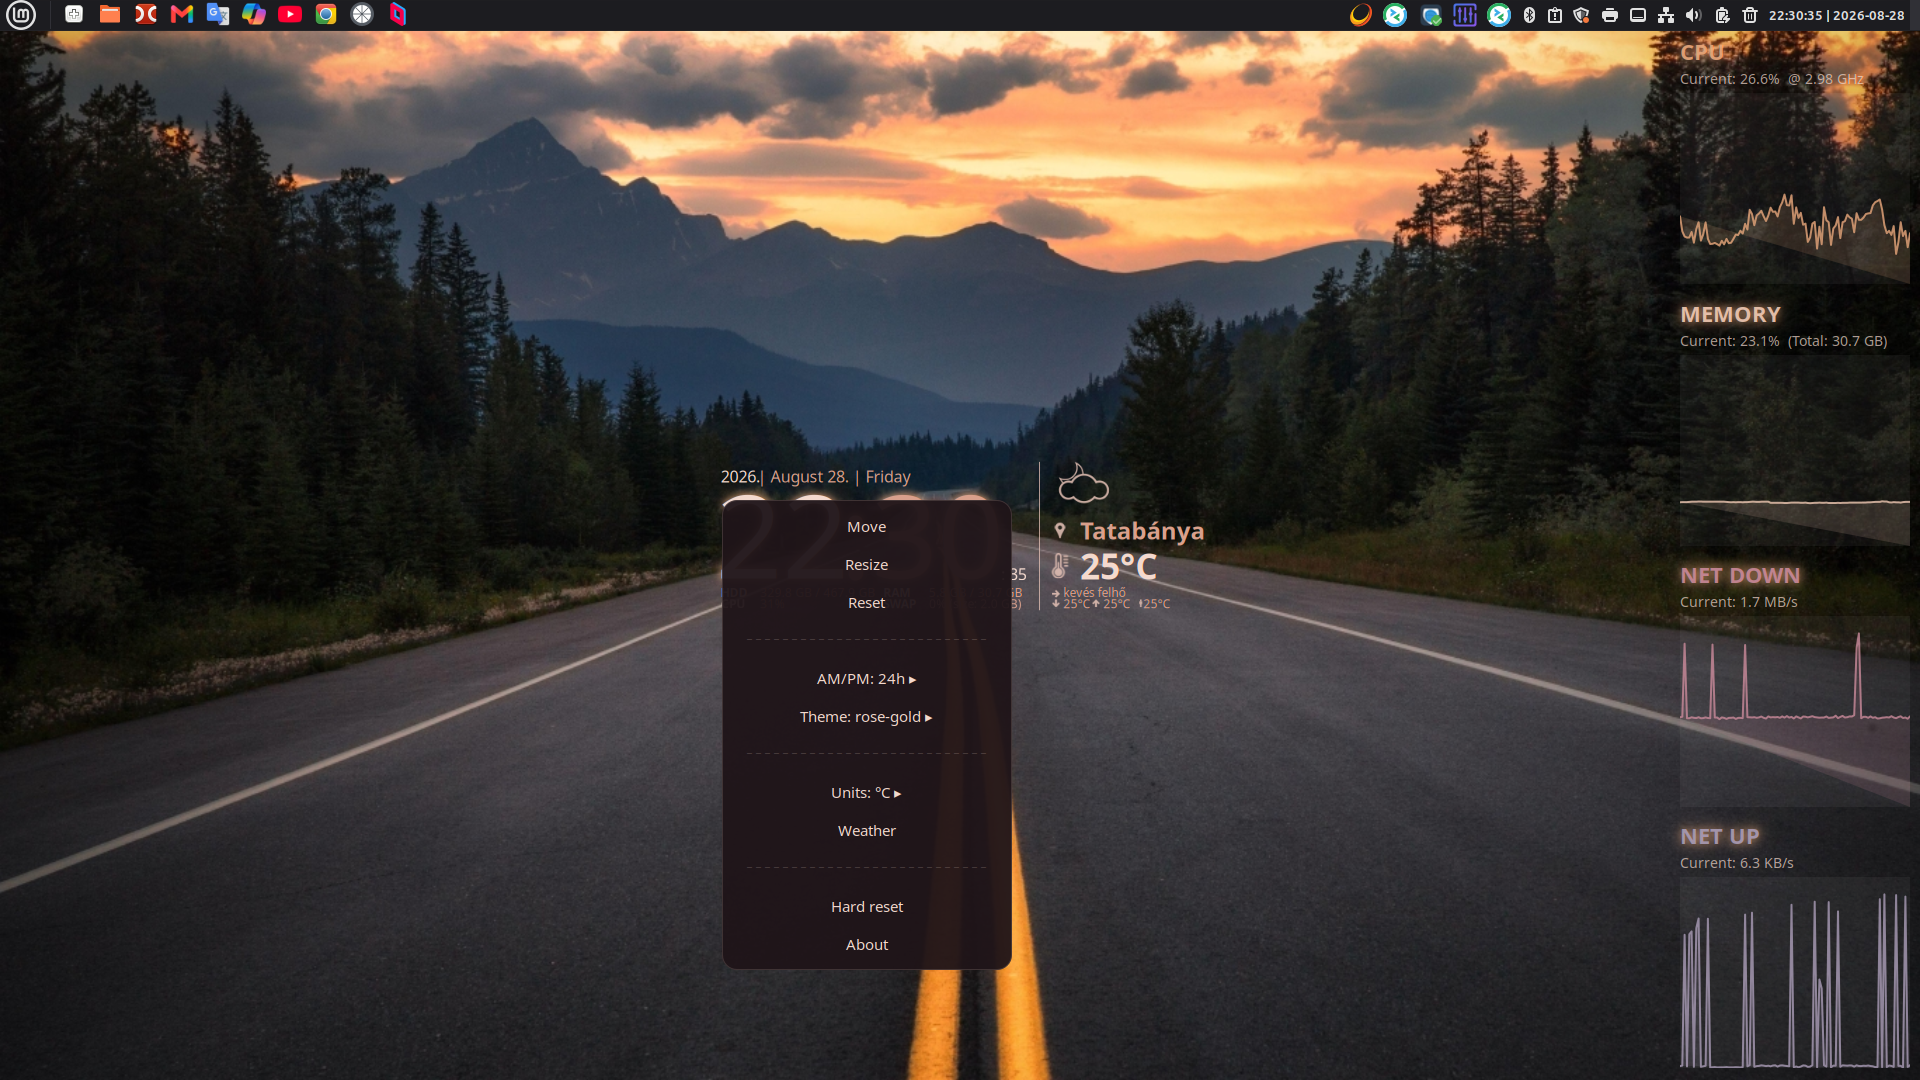
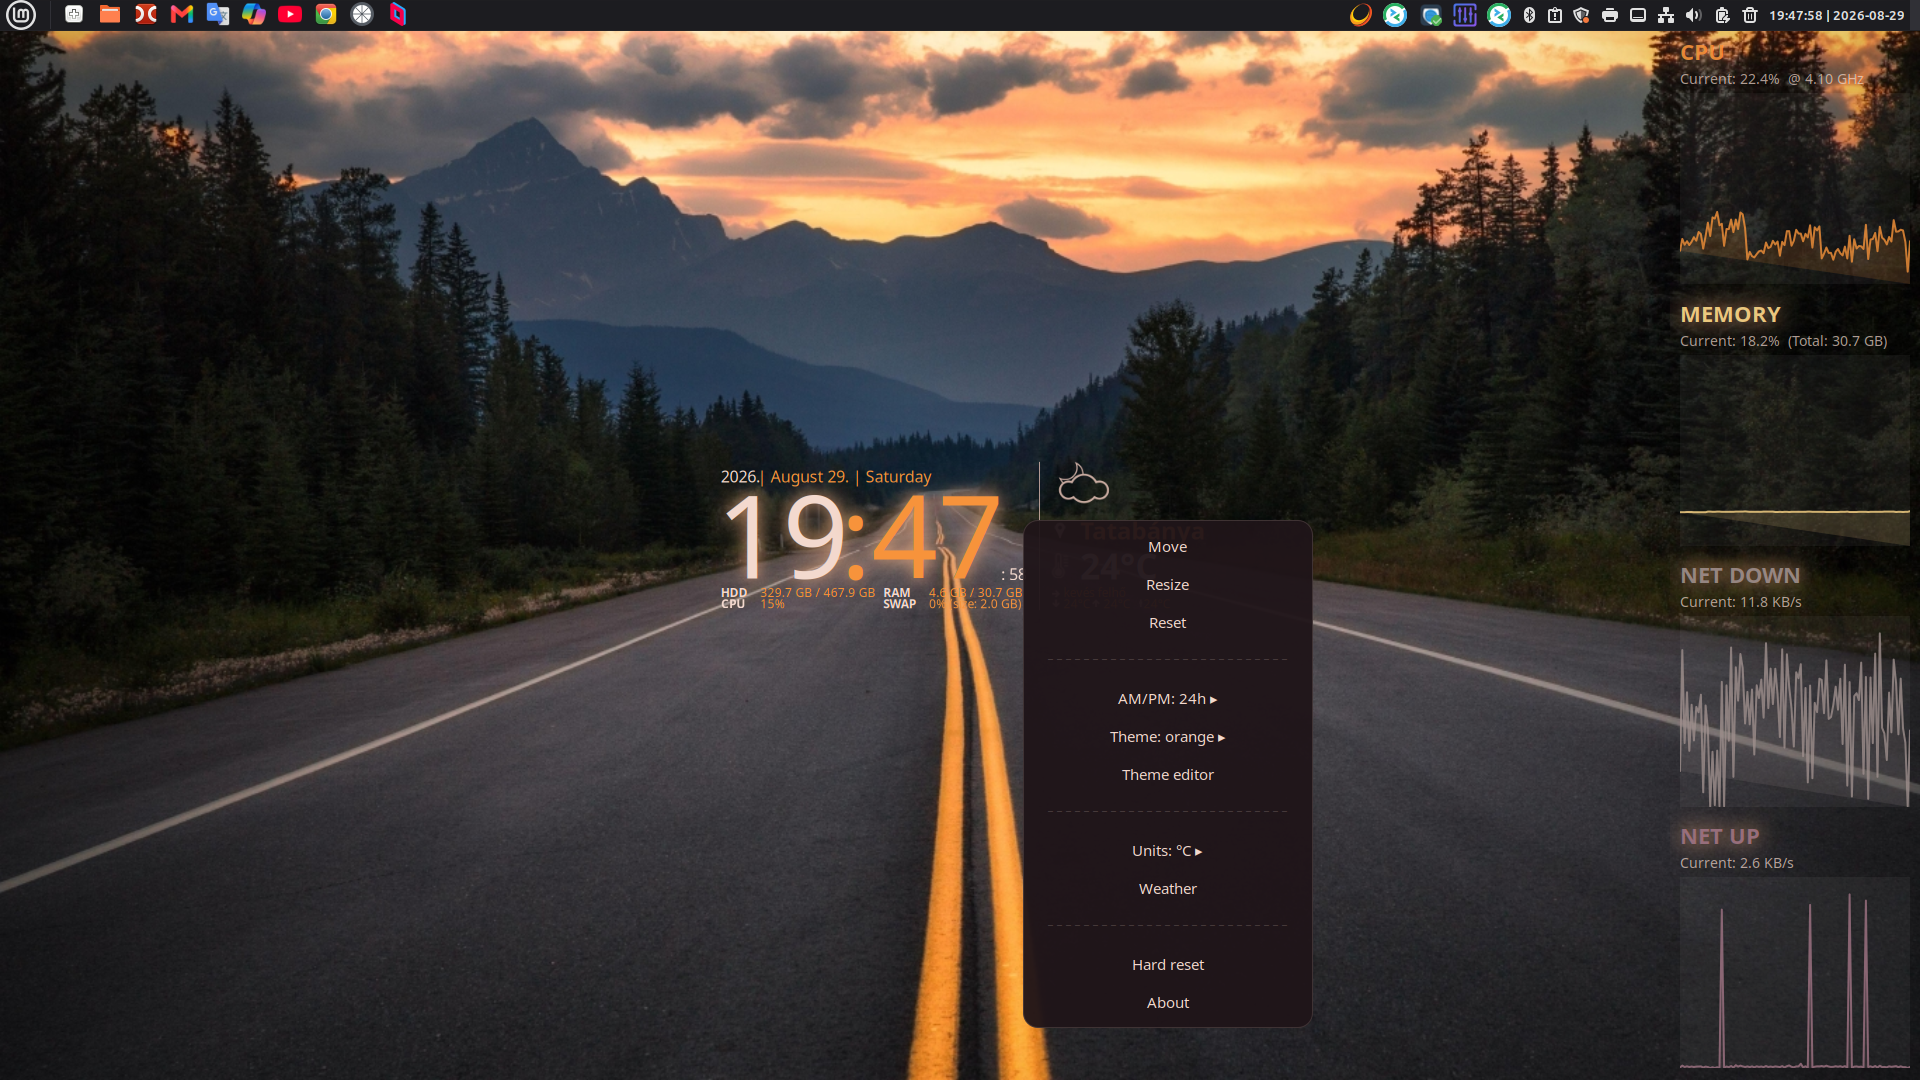
docs: refresh theme/menu/editor screenshots, add green/grey/orange

diff --git a/docs/SCREENSHOTS.md b/docs/SCREENSHOTS.md
@@ -1,11 +1,12 @@
 # Screenshots — Theme Gallery (v3.0.0, + v3.1.0 windows, + v4.0.0 theme editor)
 
 Every ready-made appearance theme, captured on a 1920×1080 monitor —
-**42 themes: 9 style themes and 12 classic color themes, each in a fully
+**45 themes: 9 style themes and 12 classic color themes (each in a fully
 transparent base variant and a `-bg` variant with visible widget/panel
-backgrounds.** Pick any of them live from the right-click menu's Theme
-submenu — or use them as recipes for your own (see the WIKI's "Creating
-style themes" section).
+backgrounds) plus three new monochrome accents — green, grey and orange.**
+Pick any of them live from the right-click menu's Theme submenu — or use
+them as recipes for your own (see the WIKI's "Creating style themes"
+section).
 
 ## Overview
 
@@ -99,6 +100,15 @@ dark steel gradient panels.
 | titanium | titanium-bg |
 |---|---|
 | ![titanium](images/screenshots/theme-titanium.png) | ![titanium-bg](images/screenshots/theme-titanium-bg.png) |
+
+## New monochrome accent themes
+
+Three standalone accent themes (no `-bg` variant) covering the green /
+grey / orange spectrum of `config.local.yaml`'s `appearance`:
+
+| green | grey | orange |
+|---|---|---|
+| ![green](images/screenshots/theme-green.png) | ![grey](images/screenshots/theme-grey.png) | ![orange](images/screenshots/theme-orange.png) |
 
 ## Classic themes — light family
 

diff --git a/README.md b/README.md
@@ -65,8 +65,9 @@ bash ~/.eww/Clock-With-Weather-EWW/scripts/bin/hard-reset.sh # factory-reset the
 ### Style Themes (new in v3.0.0)
 
 Nine styles × two variants (transparent / `-bg`) — a representative selection
-below (sunset, neon glow, aurora glow, metallic gradient). The full gallery
-with **all 42 themes** lives in [docs/SCREENSHOTS.md](docs/SCREENSHOTS.md).
+below (sunset, neon glow, aurora glow, metallic gradient), plus new
+monochrome accents (green / grey / orange). The full gallery with **all 45
+themes** lives in [docs/SCREENSHOTS.md](docs/SCREENSHOTS.md).
 
 <table>
     <tr>
